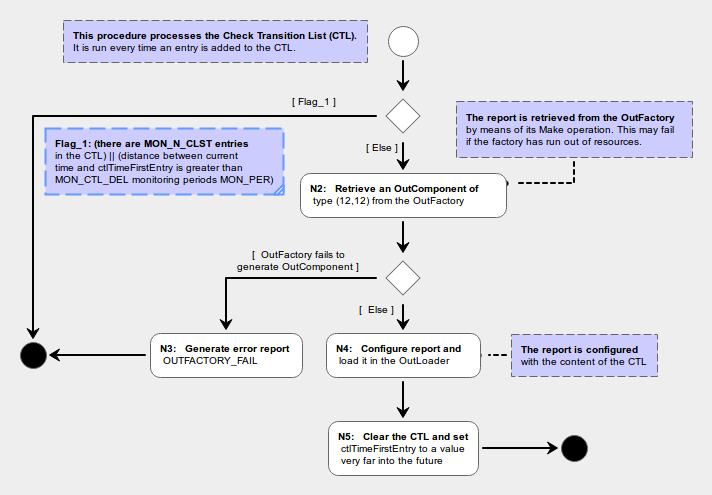
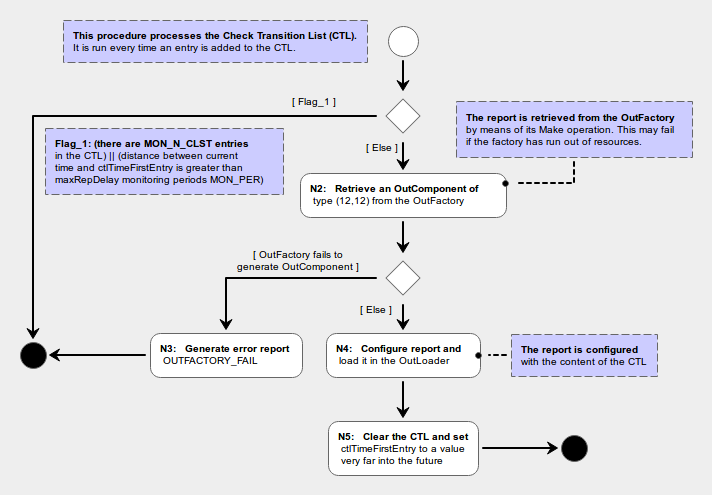
On-going definition of on-board monitoring service

Changed region(s): [[0.0618, 0.2424, 0.4017, 0.3939], [0.3708, 0.4848, 0.4944, 0.5455], [0.4944, 0.6061, 0.5562, 0.6364]]

diff --git a/doc/pus/PusExtension.tex b/doc/pus/PusExtension.tex
@@ -1365,7 +1365,7 @@ The CTL is processed by the CTL Procedure of figure \ref{fig:ProcCTL}. This proc
 
 \begin{itemize}
 \item The CTL is full (it contains at least MON\_N\_CTL entries)
-\item The CTL has not been flushed for longer than MON\_CTL\_DEL monitoring cycles of duration MON\_PER
+\item The CTL has not been flushed for longer than \texttt{maxRepDelay} monitoring cycles of duration MON\_PER
 \end{itemize}
  
 If either condition is satisfied, the procedure generates the MonCheckTransRep report (12,12) to send the current content of the CTL to the service 12 user. The procedure then clears the CTL and sets \texttt{ctlTimeFirstEntry} to a value very far in the future.
